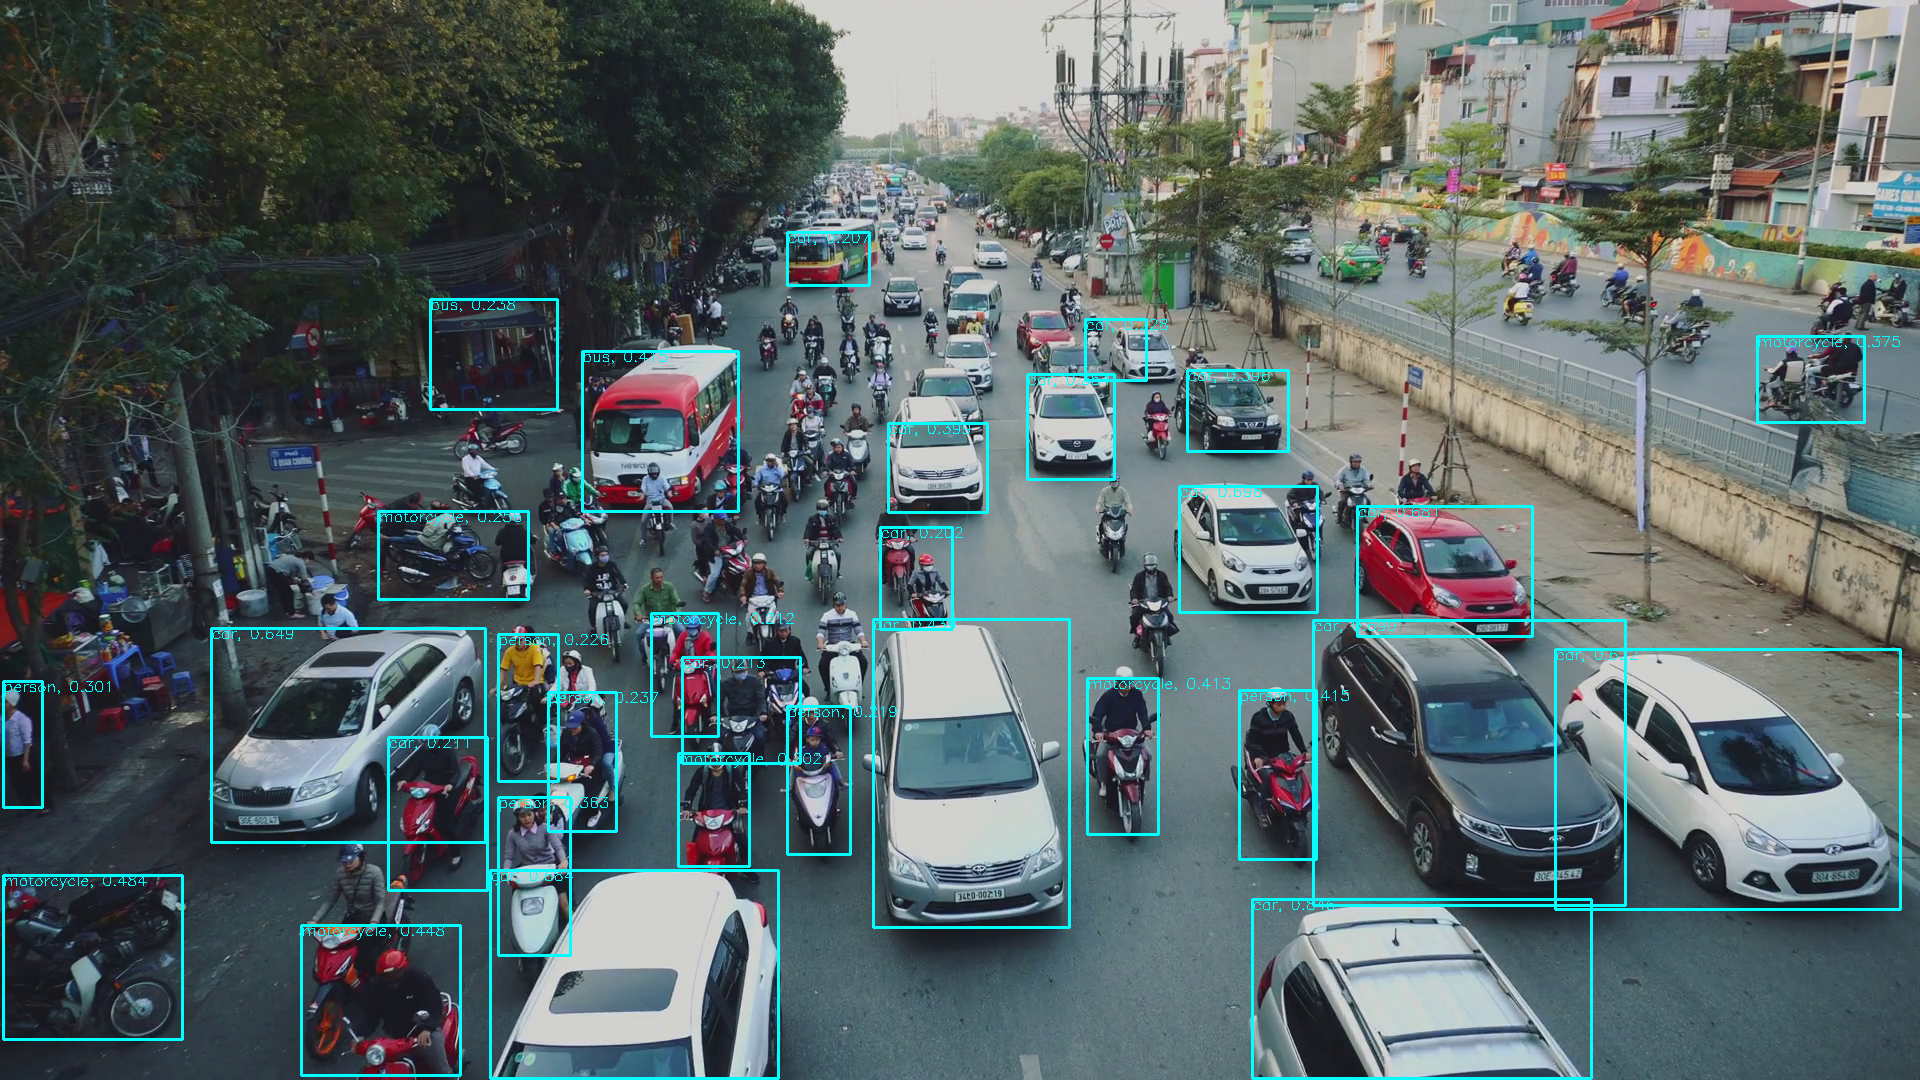
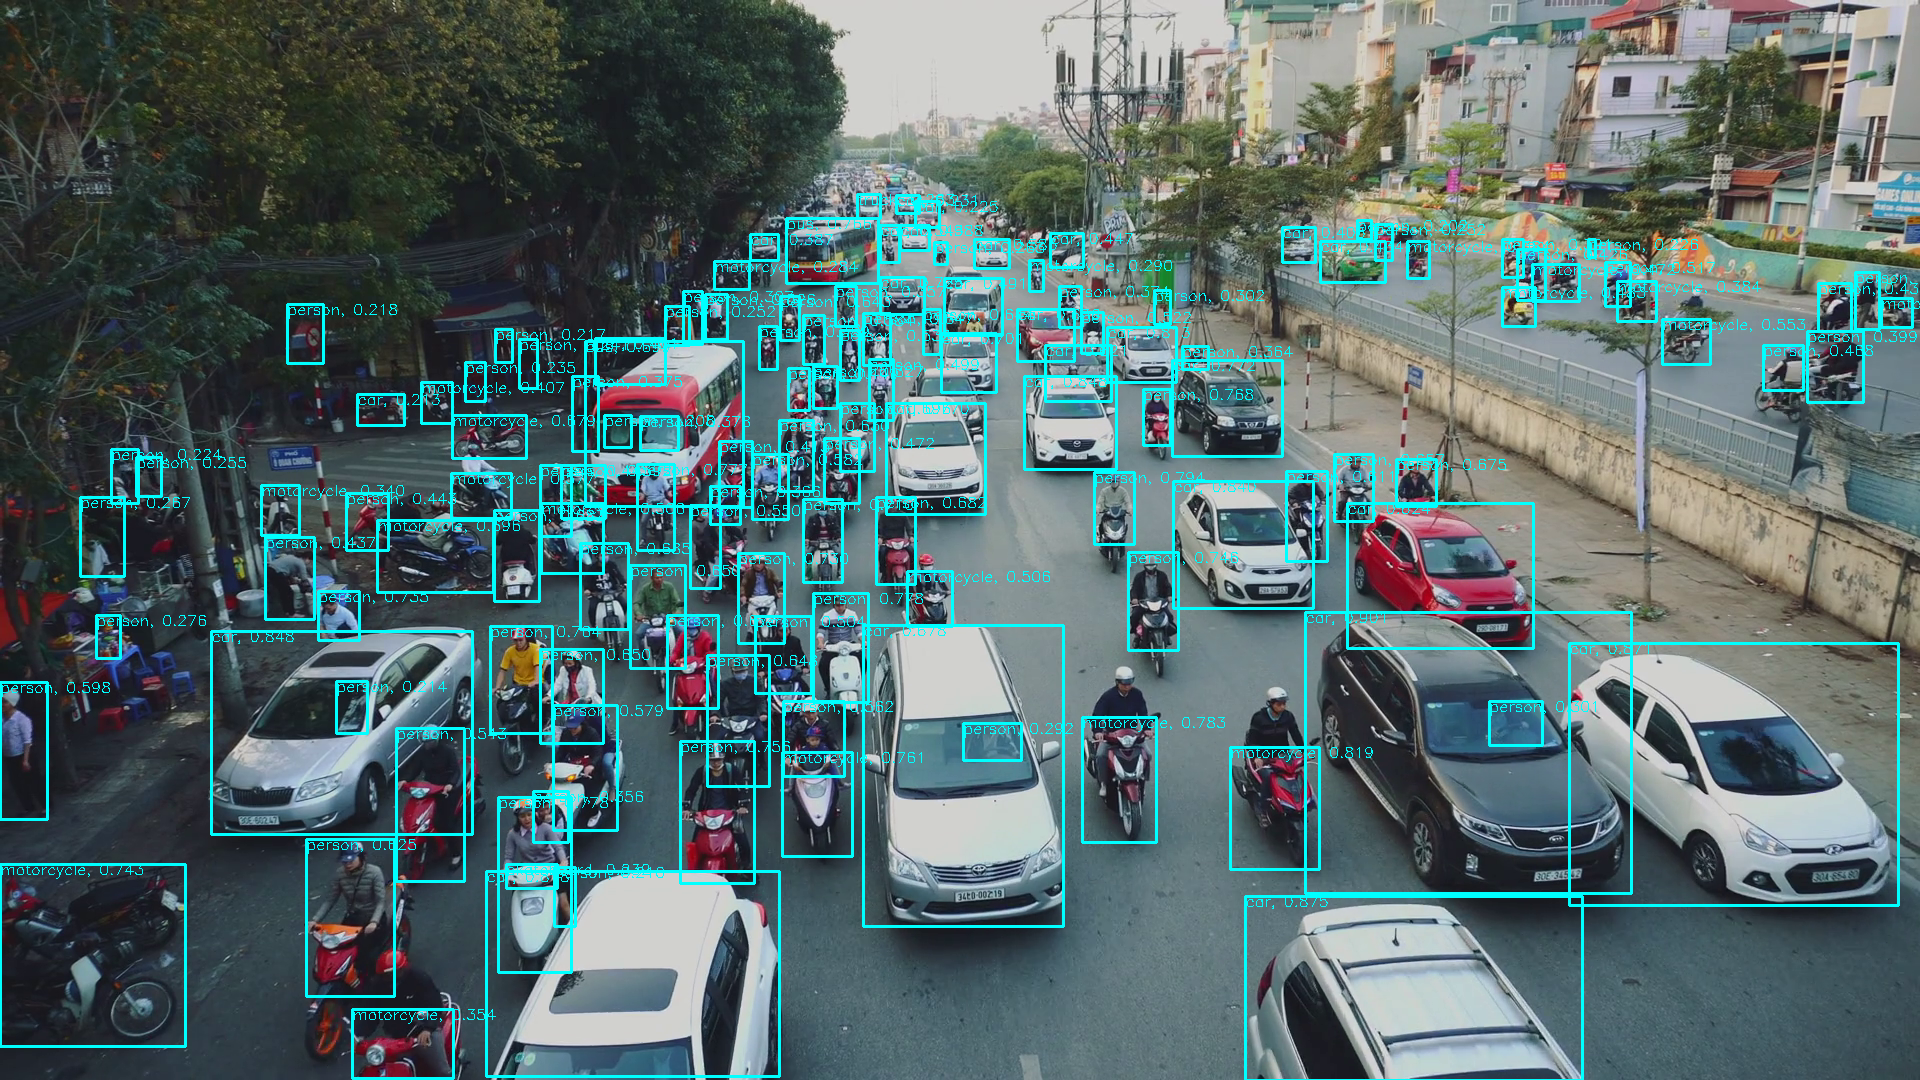
* Add hd model * Add README

diff --git a/object_detection/efficientdet/efficientdet.py b/object_detection/efficientdet/efficientdet.py
@@ -27,7 +27,11 @@ WEIGHT_EFFICIENTDET_D3_PATH = 'efficientdet-d3.onnx'
 WEIGHT_EFFICIENTDET_D4_PATH = 'efficientdet-d4.onnx'
 WEIGHT_EFFICIENTDET_D5_PATH = 'efficientdet-d5.onnx'
 WEIGHT_EFFICIENTDET_D6_PATH = 'efficientdet-d6.onnx'
-WEIGHT_EFFICIENTDET_D7_PATH = 'efficientdet-d7.onnx'
+WEIGHT_EFFICIENTDET_D0HD_PATH = 'efficientdet-d0hd.onnx'
+WEIGHT_EFFICIENTDET_D1HD_PATH = 'efficientdet-d1hd.onnx'
+WEIGHT_EFFICIENTDET_D2HD_PATH = 'efficientdet-d2hd.onnx'
+WEIGHT_EFFICIENTDET_D3HD_PATH = 'efficientdet-d3hd.onnx'
+WEIGHT_EFFICIENTDET_D4HD_PATH = 'efficientdet-d4hd.onnx'
 MODEL_EFFICIENTDET_D0_PATH = 'efficientdet-d0.onnx.prototxt'
 MODEL_EFFICIENTDET_D1_PATH = 'efficientdet-d1.onnx.prototxt'
 MODEL_EFFICIENTDET_D2_PATH = 'efficientdet-d2.onnx.prototxt'
@@ -35,7 +39,11 @@ MODEL_EFFICIENTDET_D3_PATH = 'efficientdet-d3.onnx.prototxt'
 MODEL_EFFICIENTDET_D4_PATH = 'efficientdet-d4.onnx.prototxt'
 MODEL_EFFICIENTDET_D5_PATH = 'efficientdet-d5.onnx.prototxt'
 MODEL_EFFICIENTDET_D6_PATH = 'efficientdet-d6.onnx.prototxt'
-MODEL_EFFICIENTDET_D7_PATH = 'efficientdet-d7.onnx.prototxt'
+MODEL_EFFICIENTDET_D0HD_PATH = 'efficientdet-d0hd.onnx.prototxt'
+MODEL_EFFICIENTDET_D1HD_PATH = 'efficientdet-d1hd.onnx.prototxt'
+MODEL_EFFICIENTDET_D2HD_PATH = 'efficientdet-d2hd.onnx.prototxt'
+MODEL_EFFICIENTDET_D3HD_PATH = 'efficientdet-d3hd.onnx.prototxt'
+MODEL_EFFICIENTDET_D4HD_PATH = 'efficientdet-d4hd.onnx.prototxt'
 REMOTE_PATH = \
     'https://storage.googleapis.com/ailia-models/efficientdet/'
 
@@ -64,7 +72,8 @@ parser = get_base_parser(
 parser.add_argument(
     '-m', '--model', type=str, default='d0',
     choices=(
-        'd0', 'd1', 'd2', 'd3', 'd4', 'd5', 'd6', 'd7',
+        'd0', 'd1', 'd2', 'd3', 'd4', 'd5', 'd6',
+        'd0hd', 'd1hd', 'd2hd', 'd3hd', 'd4hd',
     ),
     help='choice model'
 )
@@ -211,7 +220,11 @@ def predict(img, net):
         'd4': 1024,
         'd5': 1280,
         'd6': 1280,
-        'd7': 1280,
+        'd0hd': 1920,
+        'd1hd': 1920,
+        'd2hd': 1920,
+        'd3hd': 1920,
+        'd4hd': 1920,
     }
     input_size = dic_input_size[args.model]
 
@@ -291,7 +304,11 @@ def main():
         'd4': (WEIGHT_EFFICIENTDET_D4_PATH, MODEL_EFFICIENTDET_D4_PATH),
         'd5': (WEIGHT_EFFICIENTDET_D5_PATH, MODEL_EFFICIENTDET_D5_PATH),
         'd6': (WEIGHT_EFFICIENTDET_D6_PATH, MODEL_EFFICIENTDET_D6_PATH),
-        'd7': (WEIGHT_EFFICIENTDET_D7_PATH, MODEL_EFFICIENTDET_D7_PATH),
+        'd0hd': (WEIGHT_EFFICIENTDET_D0HD_PATH, MODEL_EFFICIENTDET_D0HD_PATH),
+        'd1hd': (WEIGHT_EFFICIENTDET_D1HD_PATH, MODEL_EFFICIENTDET_D1HD_PATH),
+        'd2hd': (WEIGHT_EFFICIENTDET_D2HD_PATH, MODEL_EFFICIENTDET_D2HD_PATH),
+        'd3hd': (WEIGHT_EFFICIENTDET_D3HD_PATH, MODEL_EFFICIENTDET_D3HD_PATH),
+        'd4hd': (WEIGHT_EFFICIENTDET_D4HD_PATH, MODEL_EFFICIENTDET_D4HD_PATH),
     }
     weight_path, model_path = dic_model[args.model]
 

diff --git a/object_detection/efficientdet/README.md b/object_detection/efficientdet/README.md
@@ -1,0 +1,68 @@
+# EfficientDet
+
+## Input
+
+![Input](img.png)
+
+(Image from https://github.com/zylo117/Yet-Another-EfficientDet-Pytorch/blob/master/test/img.png)
+
+## Output
+
+![Output](output.png)
+
+## Usage
+Automatically downloads the onnx and prototxt files on the first run.
+It is necessary to be connected to the Internet while downloading.
+
+For the sample image,
+``` bash
+$ python3 efficientdet.py
+```
+
+If you want to specify the input image, put the image path after the `--input` option.  
+You can use `--savepath` option to change the name of the output file to save.
+```bash
+$ python3 efficientdet.py --input IMAGE_PATH --savepath SAVE_IMAGE_PATH
+```
+
+By adding the `--video` option, you can input the video.   
+If you pass `0` as an argument to VIDEO_PATH, you can use the webcam input instead of the video file.
+```bash
+$ python3 efficientdet.py --video VIDEO_PATH
+```
+
+By adding the model name after the `--model` option, you can specify the model.  
+The model name is selected from 'd0', 'd1', 'd2', 'd3', 'd4', 'd5', 'd6', 'd0hd', 'd1hd', 'd2hd', 'd3hd', 'd4hd'.
+```bash
+$ python3 efficientdet.py --model d0hd
+```
+
+## Reference
+
+- [Yet Another EfficientDet Pytorch Convert ONNX TVM](https://github.com/murdockhou/Yet-Another-EfficientDet-Pytorch-Convert-ONNX-TVM)
+- [EfficientDet](https://github.com/google/automl/tree/master/efficientdet)
+- [EfficientDet: Scalable and Efficient Object Detection, in PyTorch](https://github.com/toandaominh1997/EfficientDet.Pytorch)
+- [Yet Another EfficientDet Pytorch](https://github.com/zylo117/Yet-Another-EfficientDet-Pytorch)
+
+## Framework
+
+Pytorch
+
+## Model Format
+
+ONNX opset=11
+
+## Netron
+
+[efficientdet-d0.onnx.prototxt](https://netron.app/?url=https://storage.googleapis.com/ailia-models/efficientdet/efficientdet-d0.onnx.prototxt)
+[efficientdet-d1.onnx.prototxt](https://netron.app/?url=https://storage.googleapis.com/ailia-models/efficientdet/efficientdet-d1.onnx.prototxt)
+[efficientdet-d2.onnx.prototxt](https://netron.app/?url=https://storage.googleapis.com/ailia-models/efficientdet/efficientdet-d2.onnx.prototxt)
+[efficientdet-d3.onnx.prototxt](https://netron.app/?url=https://storage.googleapis.com/ailia-models/efficientdet/efficientdet-d3.onnx.prototxt)
+[efficientdet-d4.onnx.prototxt](https://netron.app/?url=https://storage.googleapis.com/ailia-models/efficientdet/efficientdet-d4.onnx.prototxt)
+[efficientdet-d5.onnx.prototxt](https://netron.app/?url=https://storage.googleapis.com/ailia-models/efficientdet/efficientdet-d5.onnx.prototxt)
+[efficientdet-d6.onnx.prototxt](https://netron.app/?url=https://storage.googleapis.com/ailia-models/efficientdet/efficientdet-d6.onnx.prototxt)
+[efficientdet-d0hd.onnx.prototxt](https://netron.app/?url=https://storage.googleapis.com/ailia-models/efficientdet/efficientdet-d0hd.onnx.prototxt)
+[efficientdet-d1hd.onnx.prototxt](https://netron.app/?url=https://storage.googleapis.com/ailia-models/efficientdet/efficientdet-d1hd.onnx.prototxt)
+[efficientdet-d2hd.onnx.prototxt](https://netron.app/?url=https://storage.googleapis.com/ailia-models/efficientdet/efficientdet-d2hd.onnx.prototxt)
+[efficientdet-d3hd.onnx.prototxt](https://netron.app/?url=https://storage.googleapis.com/ailia-models/efficientdet/efficientdet-d3hd.onnx.prototxt)
+[efficientdet-d4hd.onnx.prototxt](https://netron.app/?url=https://storage.googleapis.com/ailia-models/efficientdet/efficientdet-d4hd.onnx.prototxt)
